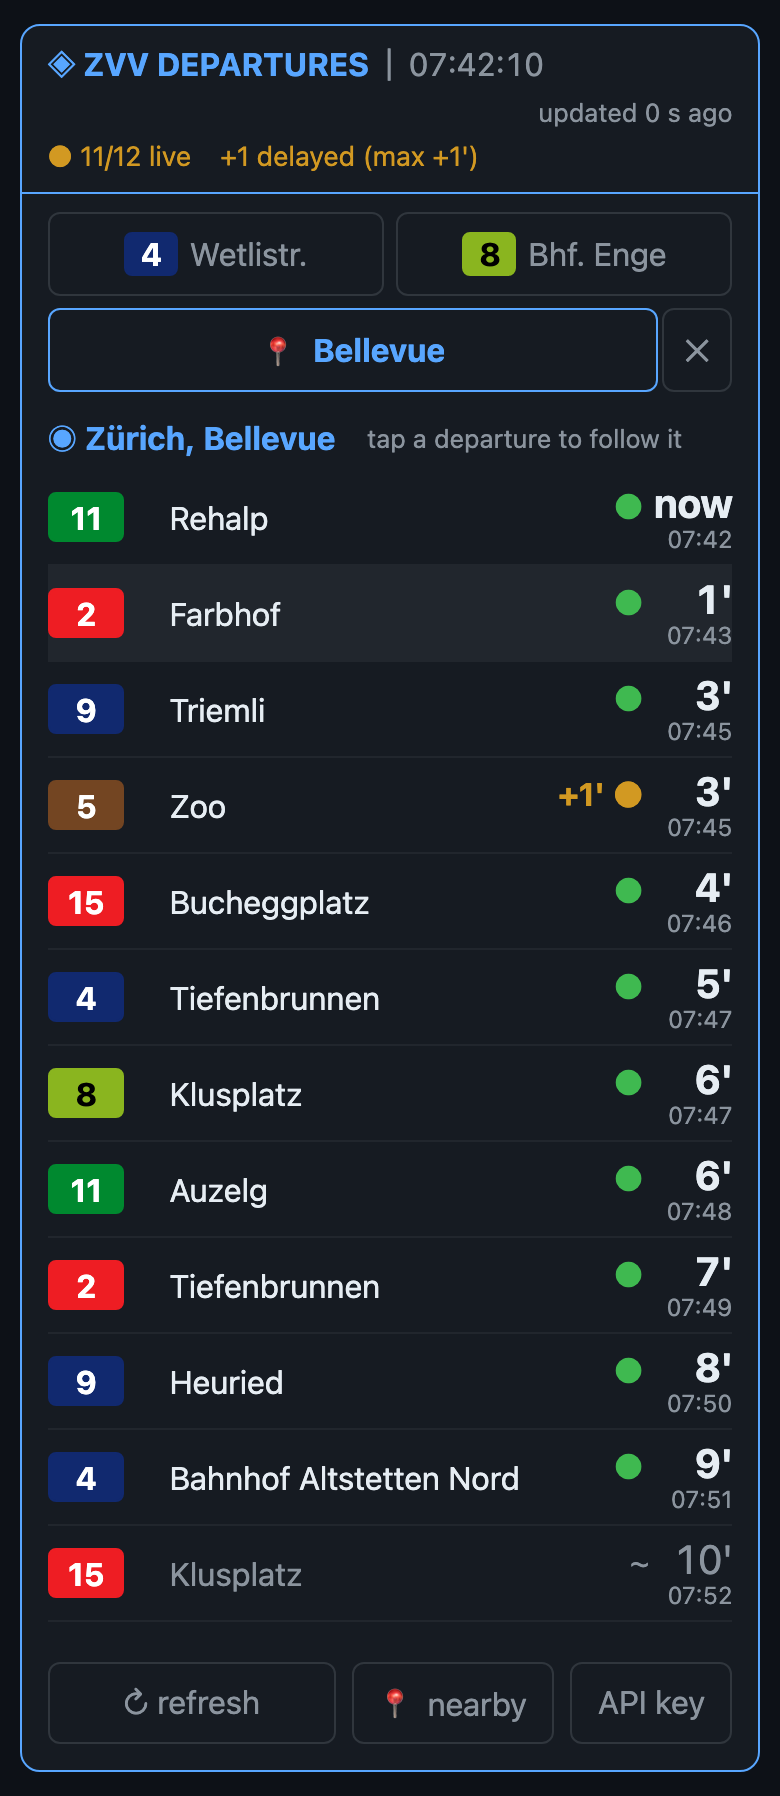
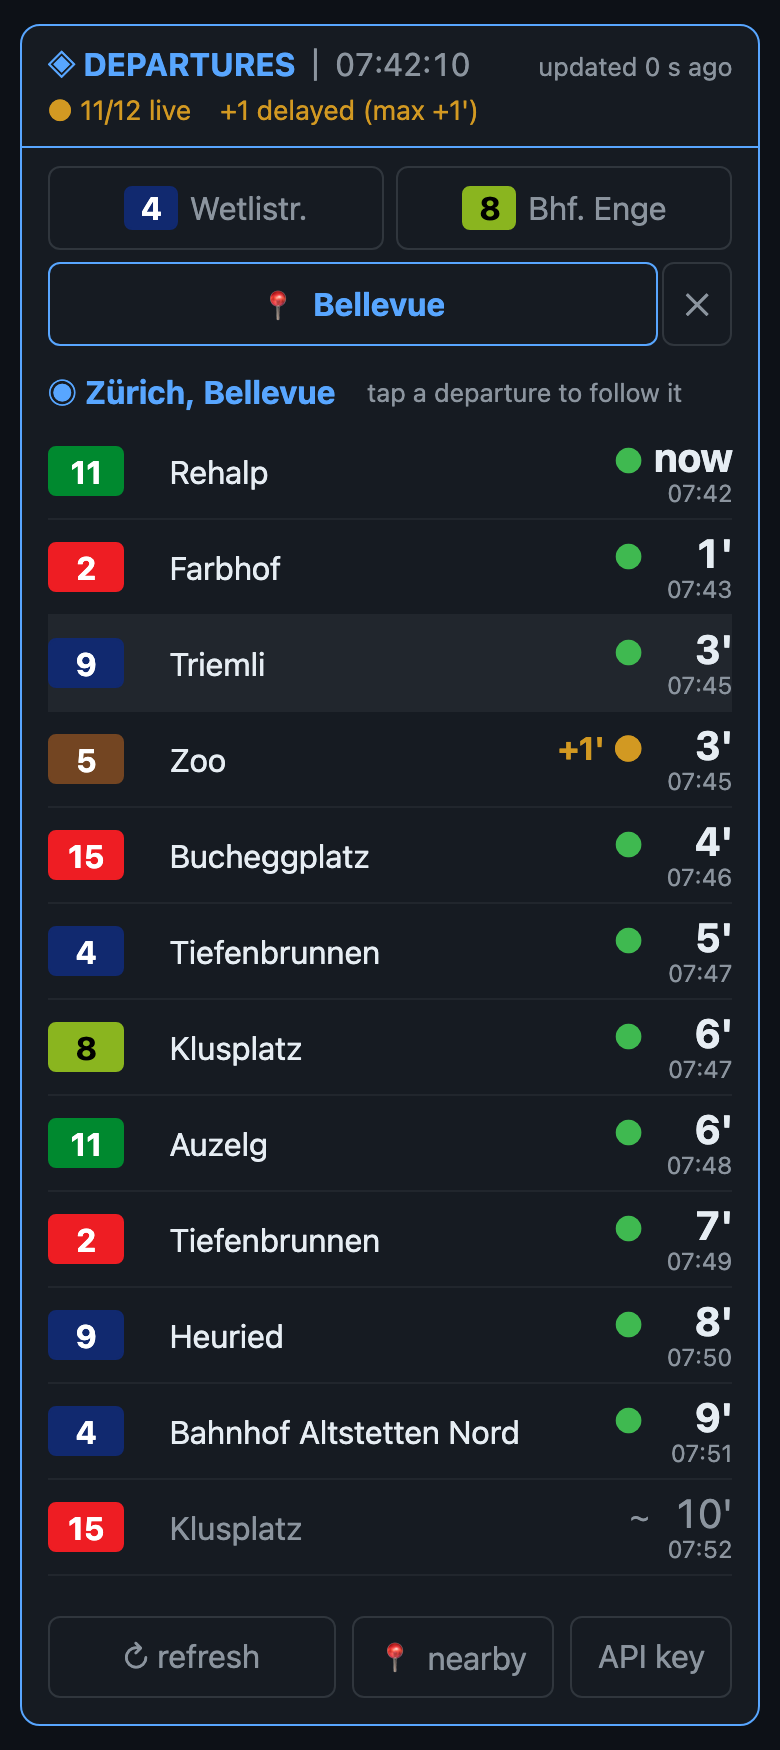
Keep the header on one line on phones
Drop "ZVV" from the header so the clock and the update age fit next to it,
and keep the row from wrapping: if space still runs out, the logo text is
cut with an ellipsis instead.

Claude-Session: https://claude.ai/code/session_011h1tpKhZoVbkpW3KhY4Jde

diff --git a/style.css b/style.css
@@ -70,18 +70,28 @@ button {
   overflow: hidden;
 }
 
+/* One line on any phone: the logo text gives way ("◈ DEPAR…") before the
+ * clock or the update age would wrap. */
 .title-row {
   display: flex;
-  flex-wrap: wrap;
+  flex-wrap: nowrap;
   align-items: baseline;
   gap: 0.5rem;
   padding: 0.6rem 0.8rem 0.2rem;
 }
 
 .logo {
+  min-width: 0;
+  overflow: hidden;
   color: var(--frame);
   font-weight: bold;
+  text-overflow: ellipsis;
   white-space: nowrap;
+}
+
+.sep,
+.clock {
+  flex: none;
 }
 
 .sep,

diff --git a/index.html b/index.html
@@ -22,7 +22,7 @@
 <body>
   <main class="board" aria-live="polite">
     <header class="title-row">
-      <span class="logo">◈ ZVV DEPARTURES</span>
+      <span class="logo">◈ DEPARTURES</span>
       <span class="sep">│</span>
       <span id="clock" class="clock"></span>
       <span id="age" class="age"></span>
